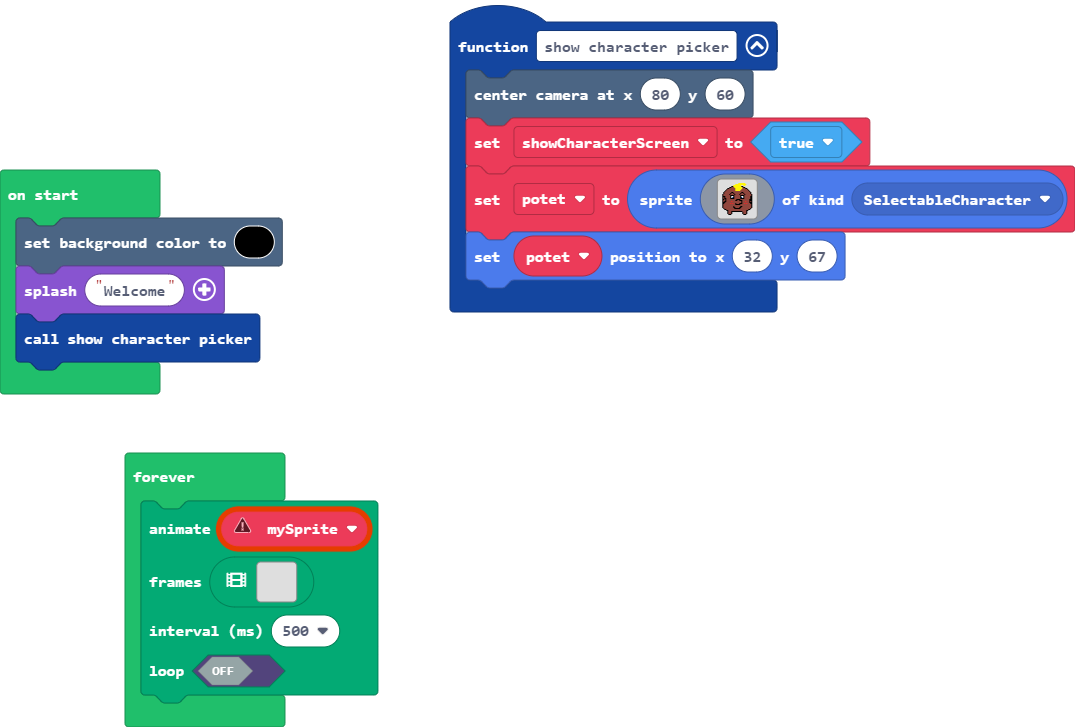
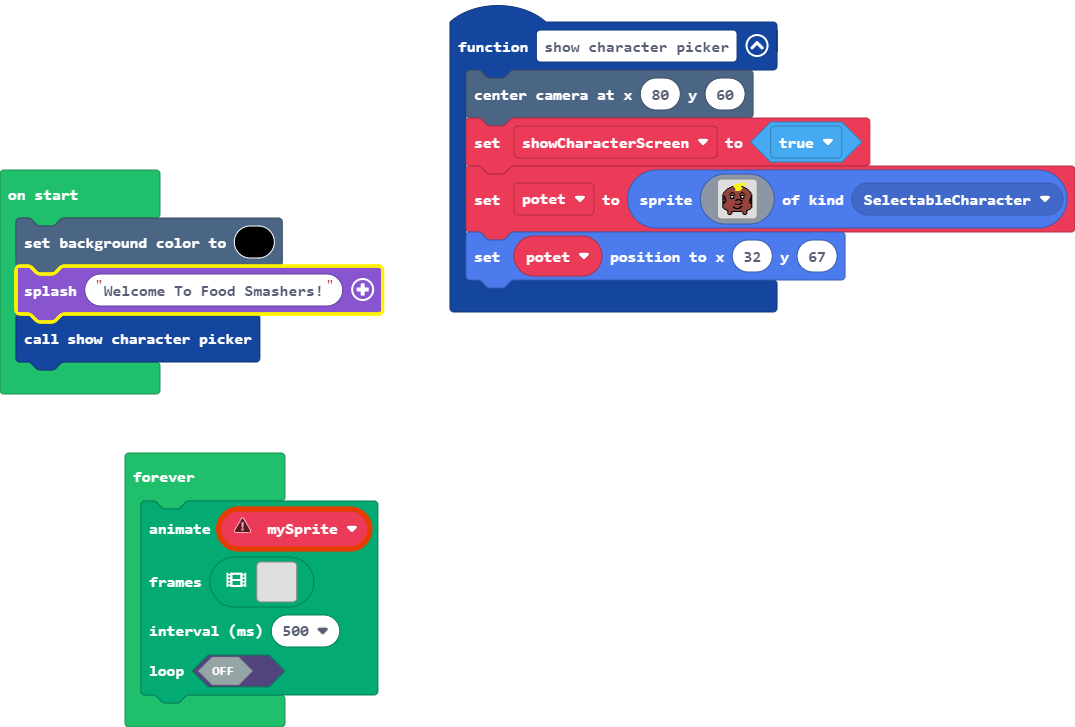
la til noe på welcome screen

Changed region(s): [[0.0, 0.3631, 0.3684, 0.4539]]

diff --git a/main.ts b/main.ts
@@ -10,7 +10,7 @@ function show_character_picker () {
 let potet: Sprite = null
 let showCharacterScreen = false
 scene.setBackgroundColor(15)
-game.splash("Welcome")
+game.splash("Welcome To Food Smashers!")
 show_character_picker()
 forever(function () {
     let mySprite: Sprite = null
